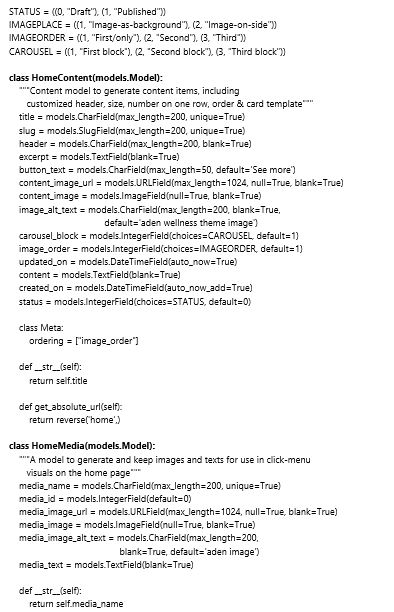
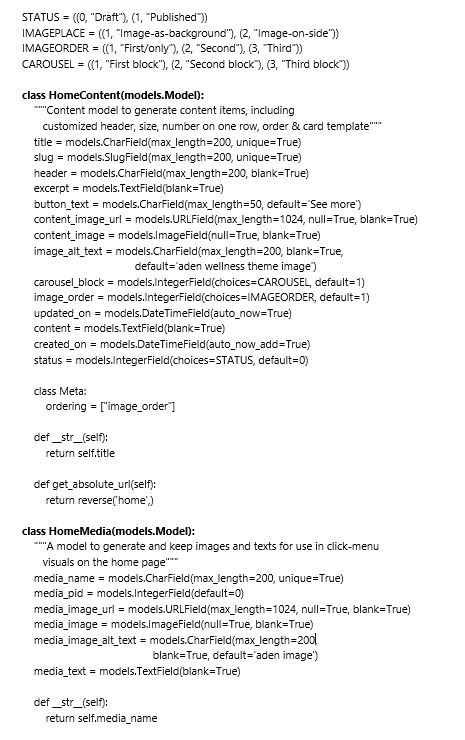
spellcheck Readme & Testing.md completed

Changed region(s): [[0.0305, 0.1242, 0.9137, 0.9935], [0.0305, 0.0, 0.7614, 0.0931]]

diff --git a/README.md b/README.md
@@ -43,7 +43,7 @@ The working version of the AdenWell e-commerce app can be found [here](https://a
       - [Typography](#typography)
   - [Marketing](#marketing)
     - [Search Engine Optimisation](#search-engine-optimisation)
-    - [FaceBook business page (mock-up)](#facebook-business-page-mock-up)
+    - [Facebook business page (mock-up)](#facebook-business-page-mock-up)
   - [Features - Finished Product](#features---finished-product)
     - [General](#general)
       - [Header](#header)
@@ -105,13 +105,13 @@ In effect, Adenwell is a business presentation and ecommerce application with fu
 
 * Structure is easy to understand and navigates effortlessly for an easy shopping experience.
 
-* The website desing and colors are appealing to the customers.
+* The website design and colors are appealing to the customers.
 
 * Customers are offered the opportunity to register an account.
 
 * Easy shopping process to create a pleaseant experince for the customer.
 
-* Flexible and clear content fiels alowing to present the company and products
+* Flexible and clear content fields allowing to present the company and products
 
 
 #### User Goals
@@ -197,7 +197,7 @@ Product quick view | 3 | 2
 Sort products by different criteria | 5 | 5
 Search products by name or description | 5 | 5
 Product details view | 5 | 5
-Display similar products at the a product details view | 3 | 2
+Display similar products at the product details view | 3 | 2
 Rate products | 4 | 3
 Write product reviews | 4 | 3
 Display current purchase total | 5 | 5
@@ -356,7 +356,7 @@ Some of the new models here - Carousel content management , Media and category d
 
 #### Wireframes
 
-[Balsamiq](https://balsamiq.com/) has been used to showcase the appearance of the site and display the placement of the different elements whitin the pages.
+[Balsamiq](https://balsamiq.com/) has been used to showcase the appearance of the site and display the placement of the different elements within the pages.
 
 Page | Mobile & Desktop Version 
 --- | --- | ---
@@ -404,7 +404,7 @@ A number of short and long tail keywords were then selected:
 
 * e-store
 * online store app
-* ecommerce platform for startups
+* ecommerce platform for start-ups
 * free app for my business
 * ecommerce and engagement app 
 * build online business community 
@@ -425,7 +425,7 @@ SEO steps taken in the projects to improve searchability
 
 ![External links noopener ](/media/readme_files/facebook-nofollow-rel.JPG)
 
-6. Include a sitemap.xml to allow search engite bot crawling
+6. Include a sitemap.xml to allow search engine bot crawling
 
 ![SEO sitemap.xml ](/media/readme_files/sitemap-xml.JPG)
 
@@ -435,10 +435,10 @@ SEO steps taken in the projects to improve searchability
 
 
 
-These keywords later will be continualy improved and refined and over time it should utlimately assist in the site ranking higher on Google.
+These keywords later will be continually improved and refined and over time it should ultimately assist in the site ranking higher on Google.
 
 
-### FaceBook business page (mock-up)
+### Facebook business page (mock-up)
 
 As a real FB page has been in a build-process, the mock-up version was used for this project:
 
@@ -610,7 +610,7 @@ As a real FB page has been in a build-process, the mock-up version was used for 
 
 * Display error if user has already submitted the review for this product
 
-* Inform user when he successfully subbmitted the review  
+* Inform user when he successfully submitted the review  
 
 #### Edit Review
 ![Adenwell review-Edit](/media/readme_files/review-edit.JPG)
@@ -782,7 +782,7 @@ The testing documentation can be found [here](https://github.com/Zilvaro/adenwel
 
 ## Deployment
 
-The project was developed using[GitPod](https://gitpod.io/) workspace. The code was commited to [Git](https://git-scm.com/) and pushed to [GitHub](https://github.com/") using the terminal. The web application is deployed on Heroku as Github Pages is not able to host a Python project. Static and media files are being stored in AWS S3. The repository is hosted on Github.
+The project was developed using[GitPod](https://gitpod.io/) workspace. The code was committed to [Git](https://git-scm.com/) and pushed to [GitHub](https://github.com/") using the terminal. The web application is deployed on Heroku as Github Pages is not able to host a Python project. Static and media files are being stored in AWS S3. The repository is hosted on Github.
 
 
 ### How To Use This Project
@@ -858,7 +858,7 @@ This project is deployed on Heroku for production, with all static and media fil
 1. Navigate to Heroku.com, create a new account or login if you already have an account. On the dashboard page, click "Create New App" button. Give the app a name, the name must be unique with hypens between words. Set the region closest to you, and click "Create App".   
 2. On the resources tab, provision a new Heroku Postgres database.  
 3. Configure variables on Heroku by navigating to Settings, and click on Reveal Config Vars. You may not have all the values yet. Add the others as you progress through the steps.   
-   Varables | Key   
+   Variables | Key   
    ---| ---   
    AWS_ACCESS_KEY_ID | your_access_key_id_from_AWS   
    AWS_SECRET_ACCESS_KEY | your_secret_access_key_from_AWS  
@@ -941,7 +941,7 @@ This project is deployed on Heroku for production, with all static and media fil
    ```
    git push heroku main
    ```
-14. Go to the app's dashboard on Heroku and go to Deploy. Connect the app to Github by clicking Github and search for the repository. Click connect. Also enable the automatic deploy by clicking Enable Automatic Deploys, so that everytime we push to github, the code will automatically be deployed to Heroku as well.  
+14. Go to the app's dashboard on Heroku and go to Deploy. Connect the app to Github by clicking Github and search for the repository. Click connect. Also enable the automatic deploy by clicking Enable Automatic Deploys, so that every time we push to github, the code will automatically be deployed to Heroku as well.  
 15. Go back to settings.py and replace the secret key setting with the call to get it from the environment, and use empty string as a default. 
    ```
    SECRET_KEY = os.environ.get('SECRET_KEY', '')
@@ -956,7 +956,7 @@ All static and media files in this project are stored in [Amazon Web Services S3
 1. Go to [Amazon Web Service website](https://aws.amazon.com/) and click on Create An AWS Account, or login if you already have an account.  
 2. Login to your new account, go to AWS Management Console and find service S3. Click on Create Bucket.   
    - Give it a name (I recommend naming your bucket to match the Heroku app name), and choose region closest to you.  
-   - In Object Ownership section, choose ACLS enabled. and Bucket Owner Preffered.   
+   - In Object Ownership section, choose ACLS enabled. and Bucket Owner Preferred.   
    - Uncheck box 'Block All Public Access'.  
    - Check box 'I acknowledge that the current settings might result in this bucket and the objects within becoming public.'  
    - Click on Create Bucket, and your bucket is created.  
@@ -965,7 +965,7 @@ All static and media files in this project are stored in [Amazon Web Services S3
    - Index document: index.html  
    - Error document: error.html
    - Click on Save Changes.  
-4. Navigate to the Permissions tab. Scroll down to the bottom until you find Cross-origin resource sharing (CORS). Click on Edit, and paste in this Cors Configuration below, which is going to set up the required access between the Heroku app and this S3 bucket. Click on Save Changes. 
+4. Navigate to the Permissions tab. Scroll down to the bottom until you find Cross-origin resource sharing (CORS). Click on Edit, and paste in this CORS Configuration below, which is going to set up the required access between the Heroku app and this S3 bucket. Click on Save Changes. 
    ```
    [
       {
@@ -1056,7 +1056,7 @@ Here are the steps I took to connect Django to AWS:
       STATIC_URL = f'https://{AWS_S3_CUSTOM_DOMAIN}/{STATICFILES_LOCATION}/'
       MEDIA_URL = f'https://{AWS_S3_CUSTOM_DOMAIN}/{MEDIAFILES_LOCATION}/'
    ```
-   Set the Config Vars on Heroku. On your app's dashboard on Heroku, go to Settings and click Reveal Convig Vars. Set this variables:
+   Set the Config Vars on Heroku. On your app's dashboard on Heroku, go to Settings and click Reveal Config Vars. Set this variables:
    Variables | Value
    --- | ---
    AWS_ACCESS_KEY_ID | your access key id from the csv file that you've downloaded before
@@ -1093,7 +1093,7 @@ Create a custom_storages.py file in your project's root directory, and inside it
 ### Content
 
 * Website content was written by the developer.
-* Example images & some quotes were taken from AdenWellnes internal database as well as:
+* Example images & some quotes were taken from AdenWellness internal database as well as:
     - [Aden Wellness](https://adenwell.com/)
     - [Aden Wellness Amazon](https://www.amazon.com/stores/Enjoyeveryday/page/41E280B2-E0B0-4A0A-8FAA-65A661BC23FB?ref_=ast_bln)
 * The categories images were taken from the following sources:
@@ -1130,7 +1130,7 @@ As stated in the testing section, the appearance of the product quantity form on
 
 * Code Institute and its amazing Slack community for their support and providing me with the necessary knowledge to complete this project.
 
-* FIFA for organizing worldcup during project submission period and providing nesessary pauses from coding.
+* FIFA for organizing WorldCup during project submission period and providing necessary pauses from coding.
   
 
 [Go to the top](#table-of-contents)

diff --git a/TESTING.md b/TESTING.md
@@ -6,6 +6,18 @@
 
 [View the live website here](https://adenwell-ecommerce.herokuapp.com/)  
 
+
+
+The application was deployed to Heroku from the very beginning and the various testing was performed on both Git and Heroku continuously. Therefore, during the formal phase of testing, there were no major issues with code, links, functionality, databases, but a few little bugs/errors still surfaced, like:
+
+- there were no 'home' link available on medium screens in mobile-nav menu (easy fix with a change from lg to md)
+- carousel's 2nd window 2nd item still used 'test' link instead of actual (fixed the copy-paste bug)
+- on product & product_detail pages the nav menu was not visible on mobile screen (fixed by adding relevant code)
+- Stripe Keys were still left commented-out in env.py file (tags removed)
+- HomeMedia attribute was named media_id and instead of rendering according to the given number, it was rendering the media items according to actual id (changed media_id to media_pid. Lesson: be more careful with naming convention)
+
+
+
 ## Table of Contents
 
 1. [Testing User Stories](#testing-user-stories)
@@ -138,13 +150,18 @@
 
 #### As a site admin, I want to be able to remove product no longer available.
 
-* Products can be easily removed from the fron-end (CRUD) or admin backend.
+* Products can be easily removed from the front-end (CRUD) or admin backend.
 
 #### As a site admin, I want to display company/brand news and promotions.
 
-* The convienient form in admin allows to upload image, alt-text, heading, excerpt, article (photo, text, links, video).
-* Admin can choose in which carousel window to place the content and which position the content shall be within the window (eg. 1st or 3rd) 
+* The convenient form in admin allows to upload image, alt-text, heading, excerpt, article (photo, text, links, video).
 * Admin can upload any image file with title and use it in one of the category field to promote a specific category or offer (by allocating the image#), or use the image anywhere in the application.
+* Admin can choose in which carousel window or media (product-link) to place the content/images and which position the content shall be within the window (eg. 1st or 3rd)
+
+![Content Media placement order/pID 1](/media/testing_files/media-place-1.JPG)
+![Content Media placement order/pID selection or change](/media/testing_files/media-pid-change.JPG)
+![Content Media placement order/pID 2](/media/testing_files/media-place-2.JPG)
+
 
 
 ### Epic 6 - Newsletter Subscription & Contact
@@ -178,7 +195,7 @@
 
 ### Python
 
-Pylint was used continuously during the development process to analyze the Python code for programming errors.
+Pylint was used continuously during the development process to analyse the Python code for programming errors.
 
 The code was then checked for errors via the terminal command "python3 -m flake8". This returned a number of whitespace and indentation errors which were rectified where possible. (The unfixed errors were situated in root files such as .vscode/artictern)
 
